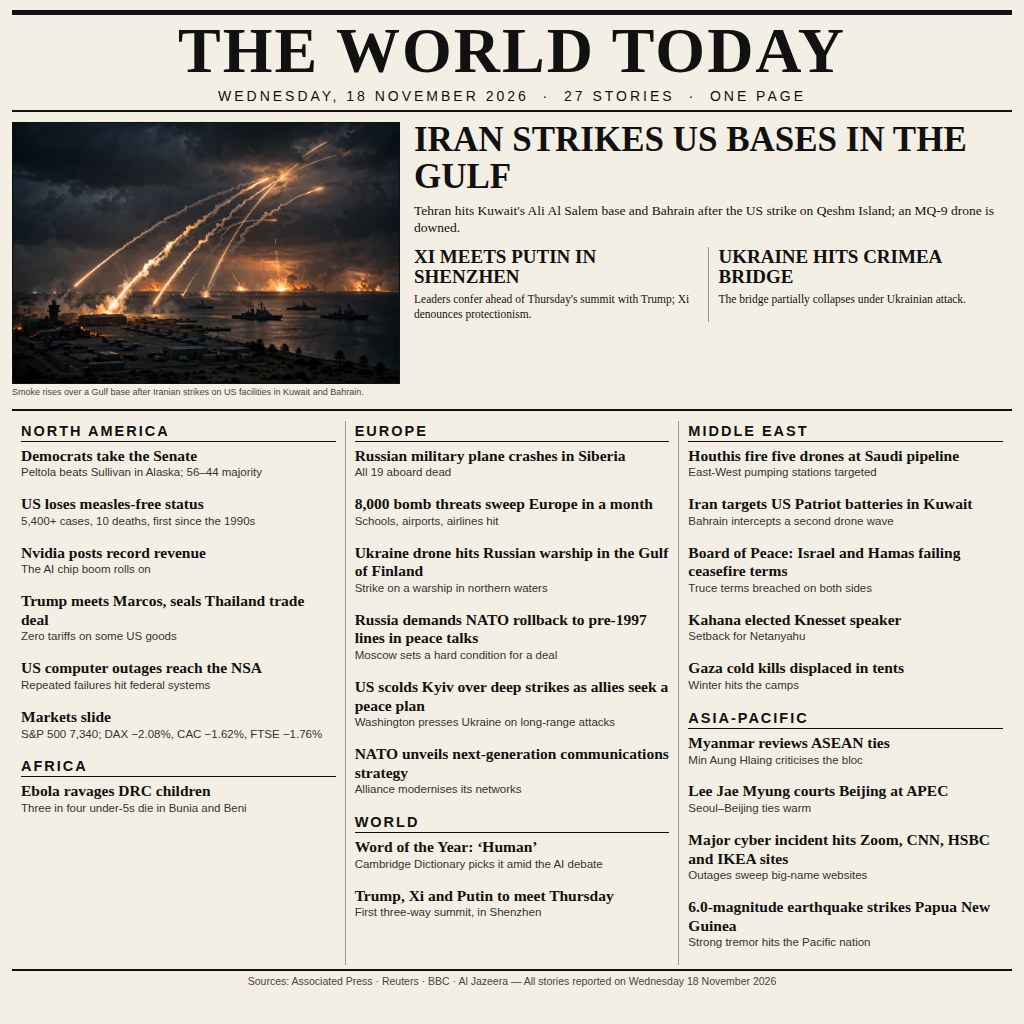
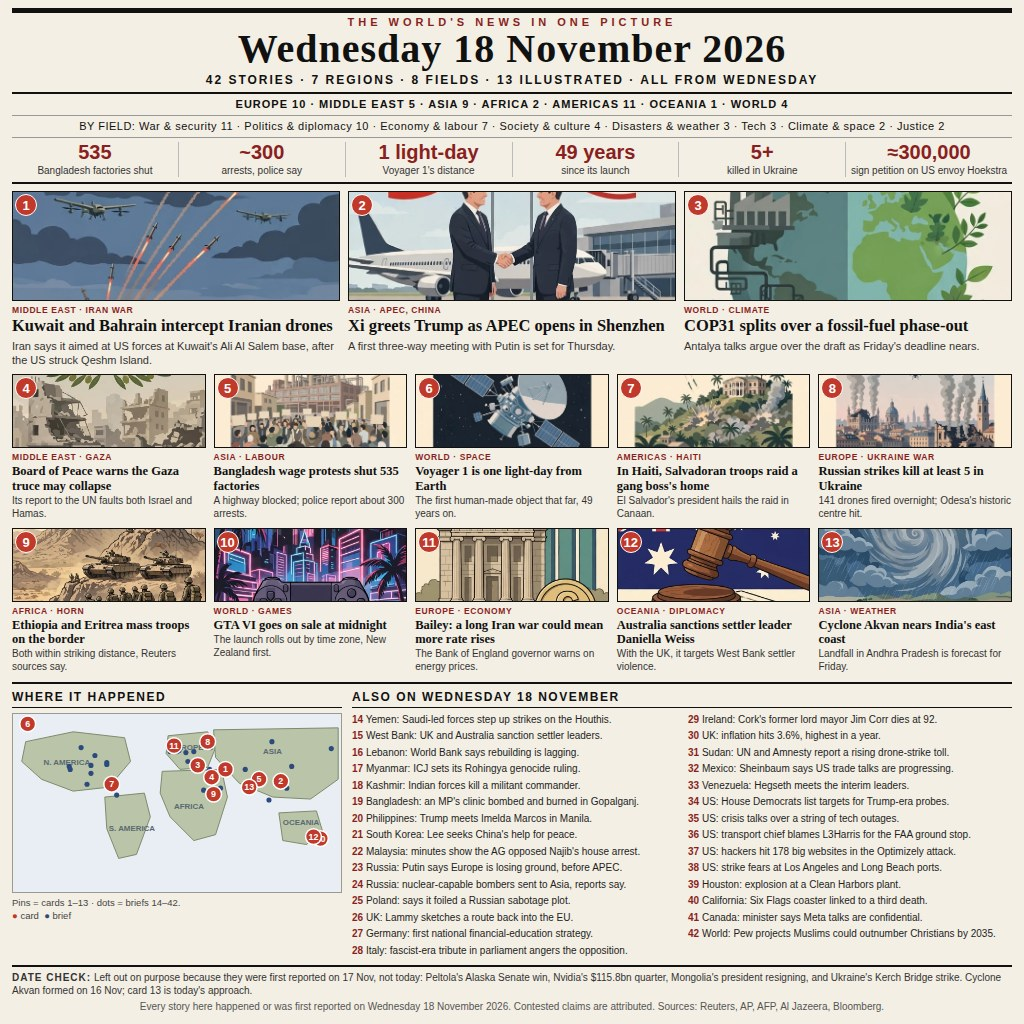
news-image-20261118 v2: front page, 42 stories, 13 illustrated cards
42 verified stories from Wednesday 18 November 2026 on one page:
masthead with region/field counts, THE DAY IN NUMBERS strip,
13 illustrated cards in 3 rows, world map with pins 1-13 and
dots for briefs 14-42, briefs 14-42, DATE CHECK footer.
main.ts: same deterministic copy program as v1, header updated
to 42 stories / v2; two runs verified byte-identical.

diff --git a/main.ts b/main.ts
@@ -1,4 +1,4 @@
-// A dense newspaper front page summing up Wednesday 18 November 2026 — 27 real stories, one page, with a lead photo of the Gulf strikes.
+// A dense newspaper front page summing up Wednesday 18 November 2026 — 42 real stories, one page: 13 illustrated cards, briefs 14-42, a world map and a DATE CHECK. v2 (supersedes v1's 27-story page).
 // This program copies the entry image beside this file to $MAKEFUN_OUTPUT_DIR/entry.png.
 // Node 22, standard library only.
 import { copyFileSync, mkdirSync, statSync } from 'node:fs';
